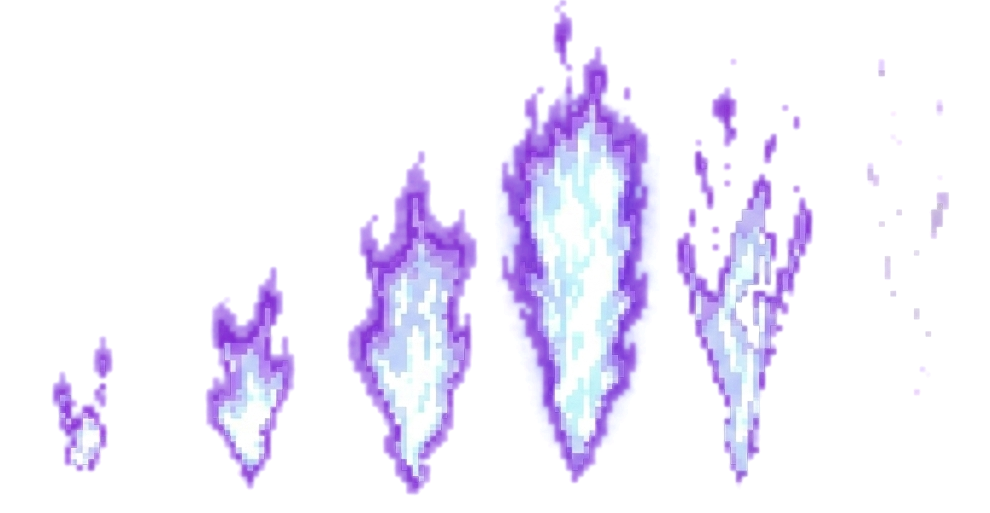
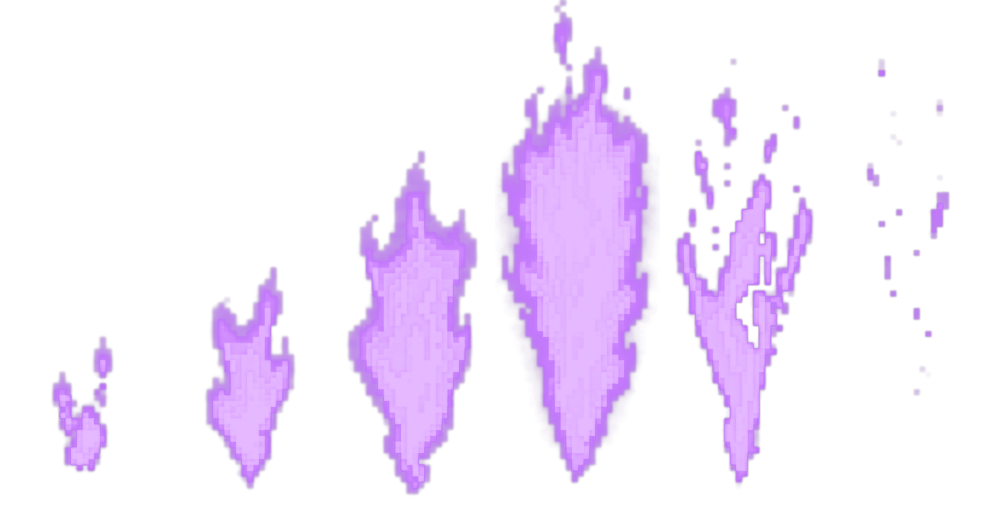
Landing Kaiju (Jamie): the frames wider with a margin all round (the tail had been cut, the next frame showing), each Kaiju placed and turned about its legs; the fire in purples, smoothed but keeping some detail, glowing purple, a little higher in the mouth; the tuner: each Kaiju on its own (place, 

diff --git a/src/Components/LandingKaiju.jsx b/src/Components/LandingKaiju.jsx
@@ -15,6 +15,7 @@ export const SEA_KAIJU = {
   sheet: "/zoom-scene/kaiju-sea.png",
   fireSheet: "/zoom-scene/kaiju-fire.png",
   outline: "rgb(191, 64, 191)",
+  fireGlow: "rgba(170, 60, 255, 0.7)", // (the fire glowing purple: Jamie)
   frameMs: 420,
   // idle, then the roar: rearing (frames 2-5), holding the widest (with fire), and back down
   idle: [0, 1, 0, 7, 6, 7],
@@ -67,8 +68,10 @@ const Wake = ({ spans, scale, width }) => {
   return <canvas ref={ref} width={size.width} height={size.height} style={{ position: "absolute", left: -12, top: -2, width: size.width, height: size.height, imageRendering: "pixelated" }} />;
 };
 
-// 'isMirrored': it faces left (the one on the right of the Peninsula); 'isShown': in (fades in and out)
-export const SeaKaiju = ({ x, y, height, waterRow, isMirrored = false, isShown = true, delayMs = 0 }) => {
+// 'isMirrored': it faces left (the one on the right of the Peninsula); 'isShown': in (fades in and out);
+// 'fireX', 'fireY': its fire moved off its mouth (px, as it faces right), 'fireScale', 'fireAngle' (degrees from upright);
+// 'isPreview': held still breathing its fire, for the tuner (Jamie: to set it against its fire)
+export const SeaKaiju = ({ x, y, height, waterRow, isMirrored = false, isShown = true, delayMs = 0, fireX = 0, fireY = 0, fireScale: fireSize = 1, fireAngle = SEA_KAIJU.fire.angle, isPreview = false }) => {
   const [step, setStep] = useState(0);
   const [fireStep, setFireStep] = useState(-1);
   const sequence = useRef([...SEA_KAIJU.idle, ...SEA_KAIJU.idle, ...SEA_KAIJU.roar]);
@@ -79,7 +82,7 @@ export const SeaKaiju = ({ x, y, height, waterRow, isMirrored = false, isShown =
     }, delayMs);
     return () => { clearTimeout(start); clearInterval(timer); };
   }, []);
-  const frame = sequence.current[step];
+  const frame = isPreview ? SEA_KAIJU.fireOn[SEA_KAIJU.fireOn.length - 1] : sequence.current[step];
   const isBreathing = SEA_KAIJU.fireOn.includes(frame);
   // the fire's own frames: growing, roaring, dying away while the mouth is wide
   useEffect(() => {
@@ -100,19 +103,21 @@ export const SeaKaiju = ({ x, y, height, waterRow, isMirrored = false, isShown =
   const [frameWidth, frameHeight] = kaijuSea.frame;
   const scale = height / waterRow;
   const width = frameWidth * scale;
+  const legsX = kaijuSea.legsX * scale; // (placed and turned about its legs)
+  const shownFire = isPreview ? kaijuSea.fire.count - 3 : fireStep; // (the biggest flame, held, in the preview)
   const spans = (kaijuSea.frames[frame].spans[Math.round(waterRow)] || []);
   const [mouthX, mouthY] = kaijuSea.frames[frame].mouth;
   const [fireWidth, fireHeight] = kaijuSea.fire.frame;
-  const fireScale = (height * SEA_KAIJU.fire.length) / fireHeight;
+  const fireScale = ((height * SEA_KAIJU.fire.length) / fireHeight) * fireSize;
   return (
-    <Holder style={{ left: x - (frameWidth / 2) * scale, top: y - height, width, height, opacity: isShown ? 1 : 0, transform: isMirrored ? "scaleX(-1)" : undefined }}>
+    <Holder style={{ left: x - legsX, top: y - height, width, height, opacity: isShown ? 1 : 0, transformOrigin: `${legsX}px 50%`, transform: isMirrored ? "scaleX(-1)" : undefined }}>
       {/* the body, cut by the water */}
       <div style={{ position: "absolute", left: 0, top: 0, width, height, overflow: "hidden", filter: `drop-shadow(0 0 0.6px ${SEA_KAIJU.outline}) drop-shadow(0 0 0.6px ${SEA_KAIJU.outline})` }}>
-        <div style={{ width: frameWidth * kaijuSea.frames.length * scale, height: frameHeight * scale, backgroundImage: `url(${SEA_KAIJU.sheet})`, backgroundSize: "100% 100%", transform: `translateX(${-frame * width}px)` }} />
+        <div style={{ width, height: frameHeight * scale, backgroundImage: `url(${SEA_KAIJU.sheet})`, backgroundSize: `${kaijuSea.frames.length * 100}% 100%`, backgroundPosition: `${(frame / (kaijuSea.frames.length - 1)) * 100}% 0`, backgroundRepeat: "no-repeat" }} />
       </div>
       {/* its fire, from its mouth, turned toward its face and up */}
-      {fireStep >= 0 && (
-        <div style={{ position: "absolute", left: mouthX * scale - (fireWidth * fireScale) / 2, top: mouthY * scale - fireHeight * fireScale, width: fireWidth * fireScale, height: fireHeight * fireScale, transformOrigin: "50% 100%", transform: `rotate(${SEA_KAIJU.fire.angle}deg)`, backgroundImage: `url(${SEA_KAIJU.fireSheet})`, backgroundSize: `${kaijuSea.fire.count * 100}% 100%`, backgroundPosition: `${(fireStep / (kaijuSea.fire.count - 1)) * 100}% 0`, mixBlendMode: "plus-lighter" }} />
+      {shownFire >= 0 && (
+        <div style={{ position: "absolute", left: mouthX * scale + fireX - (fireWidth * fireScale) / 2, top: mouthY * scale + fireY - fireHeight * fireScale, width: fireWidth * fireScale, height: fireHeight * fireScale, transformOrigin: "50% 100%", transform: `rotate(${fireAngle}deg)`, backgroundImage: `url(${SEA_KAIJU.fireSheet})`, backgroundSize: `${kaijuSea.fire.count * 100}% 100%`, backgroundPosition: `${(shownFire / (kaijuSea.fire.count - 1)) * 100}% 0`, mixBlendMode: "plus-lighter", filter: `drop-shadow(0 0 2px ${SEA_KAIJU.fireGlow}) drop-shadow(0 0 5px ${SEA_KAIJU.fireGlow})` }} />
       )}
       {/* the wake along the waterline */}
       <div style={{ position: "absolute", left: 0, top: height - 1 }}>

diff --git a/src/Components/LandingTuner.jsx b/src/Components/LandingTuner.jsx
@@ -16,7 +16,9 @@ import styled from "styled-components";
     baseJoiner: the skyline's base blue carried down over its feet: its top and height, its middle across, its top's and
       its bottom's widths (logo px), where its fade begins (a share of its height, solid above it) and its opacity
     kaijuLeft, kaijuRight: the Kaiju in the water (the Peninsula picture's px): x its legs' middle, y the waterline at
-      it, its height out of the water; kaiju.waterRow: where in its frame (feet at 374) the water cuts it
+      it, its height out of the water, waterRow where on its body the water starts (its frame's row: feet at 380);
+      its fire: fireX, fireY moved off its mouth (px, as it faces right: mirrored on the right one), fireScale,
+      fireAngle (degrees from upright); kaiju.preview 1: both held still breathing fire, to set them
     buoy: its foot on the water (the picture's px) and its size; "Flash now" sets an event off without waiting
 */
 // (Jamie's, 2026-11-18)
@@ -27,9 +29,9 @@ export const LANDING_TUNE_DEFAULTS = {
   cityscape: { y: 4 },
   pressKey: { top: 0.655 },
   baseJoiner: { top: 194.5, height: 10.5, middle: 292.5, topWidth: 506, bottomWidth: 678, solid: 0.58, opacity: 0.81 },
-  kaijuLeft: { x: 532, y: 525, height: 92 },
-  kaijuRight: { x: 1103, y: 525, height: 92 },
-  kaiju: { waterRow: 300 },
+  kaijuLeft: { x: 532, y: 525, height: 92, waterRow: 306, fireX: 0, fireY: -6, fireScale: 1, fireAngle: 52 },
+  kaijuRight: { x: 1103, y: 525, height: 92, waterRow: 306, fireX: 0, fireY: -6, fireScale: 1, fireAngle: 52 },
+  kaiju: { preview: 0 },
   buoy: { x: 478, y: 452, size: 1 }
 };
 const RANGES = {
@@ -39,9 +41,9 @@ const RANGES = {
   cityscape: { y: [-30, 30, 0.5] },
   pressKey: { top: [0.5, 0.97, 0.005] },
   baseJoiner: { top: [150, 240, 0.5], height: [2, 60, 0.5], middle: [200, 400, 0.5], topWidth: [100, 700, 1], bottomWidth: [100, 700, 1], solid: [0, 1, 0.01], opacity: [0, 1, 0.01] },
-  kaijuLeft: { x: [300, 1500, 1], y: [404, 760, 1], height: [20, 220, 1] },
-  kaijuRight: { x: [300, 1500, 1], y: [404, 760, 1], height: [20, 220, 1] },
-  kaiju: { waterRow: [200, 374, 1] },
+  kaijuLeft: { x: [300, 1500, 1], y: [404, 760, 1], height: [20, 220, 1], waterRow: [150, 380, 1], fireX: [-60, 60, 0.5], fireY: [-60, 60, 0.5], fireScale: [0.2, 3, 0.05], fireAngle: [-30, 120, 1] },
+  kaijuRight: { x: [300, 1500, 1], y: [404, 760, 1], height: [20, 220, 1], waterRow: [150, 380, 1], fireX: [-60, 60, 0.5], fireY: [-60, 60, 0.5], fireScale: [0.2, 3, 0.05], fireAngle: [-30, 120, 1] },
+  kaiju: { preview: [0, 1, 1] },
   buoy: { x: [300, 1500, 1], y: [404, 760, 1], size: [0.5, 3, 0.05] }
 };
 const STORE_KEY = "kaiju-landing-tune";

diff --git a/src/Components/LandingScene.jsx b/src/Components/LandingScene.jsx
@@ -452,8 +452,8 @@ export const LandingScene = ({ spot, zoom, isBack = false, logoScale = 1, lift =
       <Surf points={SURF_POINTS} width={LANDING_VIEW.size.width} height={LANDING_VIEW.size.height} />
       <Surf points={landingTraffic.coast} width={LANDING_VIEW.size.width} height={LANDING_VIEW.size.height} pixel rest={COAST.rest} />
       <Buoy {...tune.buoy} onFacing={onBuoyFacing} />
-      {event !== undefined && <SeaKaiju key={`left ${event}`} {...tune.kaijuLeft} waterRow={tune.kaiju.waterRow} isShown={!isEventFading} />}
-      {event !== undefined && <SeaKaiju key={`right ${event}`} {...tune.kaijuRight} waterRow={tune.kaiju.waterRow} isShown={!isEventFading} isMirrored delayMs={700} />}
+      {(event !== undefined || tune.kaiju.preview > 0) && <SeaKaiju key={`left ${event}`} {...tune.kaijuLeft} isShown={!isEventFading || tune.kaiju.preview > 0} isPreview={tune.kaiju.preview > 0} />}
+      {(event !== undefined || tune.kaiju.preview > 0) && <SeaKaiju key={`right ${event}`} {...tune.kaijuRight} isShown={!isEventFading || tune.kaiju.preview > 0} isPreview={tune.kaiju.preview > 0} isMirrored delayMs={700} />}
       <Moon {...tune.moon} />
 
       <MoonReflection {...tune.reflection} />

diff --git a/scripts/landingKaiju.py b/scripts/landingKaiju.py
@@ -13,9 +13,10 @@ import cv2
 from PIL import Image
 
 kaiju_path, fire_path, kaiju_out, fire_out, json_out = sys.argv[1:6]
-FRAME = (300, 380)              # each Kaiju frame's size, px
-FEET_AT = 374                   # the feet's line in a frame
-LEGS_X = 150                    # the legs' middle across a frame
+FRAME = (480, 400)              # each Kaiju frame's size, px (wide: the tail had been cut, the next frame showing)
+FEET_AT = 380                   # the feet's line in a frame
+LEGS_X = 270                    # the legs' middle across a frame
+MARGIN = 12                     # empty all round each pose, at least (checked)
 SKIP = {6}                      # (0-based, among the figures found: the 7th and 8th poses overlap, found as one)
 ROAR = [2, 3, 4, 5]             # the kept frames that roar (mouth open: fire), by their place among the kept
 
@@ -48,6 +49,8 @@ for k in kept:
     dx0, dy0 = max(0, ox), max(0, oy)
     ww, hh = min(w - sx0, FRAME[0] - dx0), min(h - sy0, FRAME[1] - dy0)
     frame[dy0:dy0 + hh, dx0:dx0 + ww] = alpha[sy0:sy0 + hh, sx0:sx0 + ww]
+    filled = np.nonzero(frame > 0.02)
+    assert filled[1].min() >= MARGIN and filled[1].max() < FRAME[0] - MARGIN and filled[0].min() >= MARGIN, ('a pose runs off its frame', k, filled[1].min(), filled[1].max(), filled[0].min())
     frames.append(frame)
     # its mouth: the frontmost (rightmost) point of the head (the top third of it), a little down from the snout's tip
     solid_frame = frame > 0.5
@@ -84,9 +87,18 @@ for x, y, w, h, _ in panels:
     crop = fire[y + 4:y + 4 + ph, cx - pw // 2:cx - pw // 2 + pw]
     light_ = crop.max(axis=2)
     a = np.clip((light_ - 10) / 200, 0, 1)
-    color = np.clip(crop / np.maximum(a[..., None], 1e-3), 0, 255)
+    # (Jamie: more purple, glowing, less of its busy detail but some kept): its light smoothed a little, then coloured
+    # from deep violet through bright violet to a pale lavender core
+    smooth = cv2.GaussianBlur(light_, (0, 0), 1.3) * 0.6 + light_ * 0.4
+    level = np.clip((smooth - 20) / 250, 0, 1) ** 1.25  # (the palest only at the hottest)
+    stops = np.array([[60, 8, 110], [128, 32, 210], [176, 80, 250], [214, 150, 255], [236, 200, 255]], np.float32)
+    at = level * (len(stops) - 1)
+    i = np.clip(at.astype(int), 0, len(stops) - 2)
+    f = (at - i)[..., None]
+    color = stops[i] * (1 - f) + stops[i + 1] * f
+    a = np.clip(cv2.GaussianBlur(a, (0, 0), 0.8), 0, 1)
     flames.append(np.dstack([color, a * 255]).astype(np.uint8))
 Image.fromarray(np.concatenate(flames, axis=1), 'RGBA').save(fire_out)
 
-json.dump({'frame': FRAME, 'feetAt': FEET_AT, 'roar': ROAR, 'frames': meta, 'fire': {'frame': [int(pw), int(ph)], 'count': len(flames)}}, open(json_out, 'w'))
+json.dump({'frame': FRAME, 'feetAt': FEET_AT, 'legsX': LEGS_X, 'roar': ROAR, 'frames': meta, 'fire': {'frame': [int(pw), int(ph)], 'count': len(flames)}}, open(json_out, 'w'))
 print('kaiju frames', len(frames), 'mouths', [m['mouth'] for m in meta], 'fire frames', len(flames), (pw, ph))
